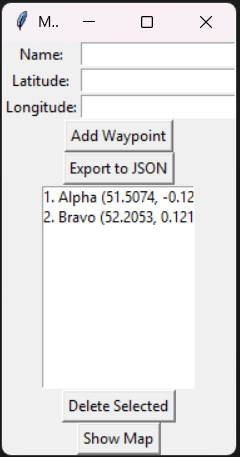
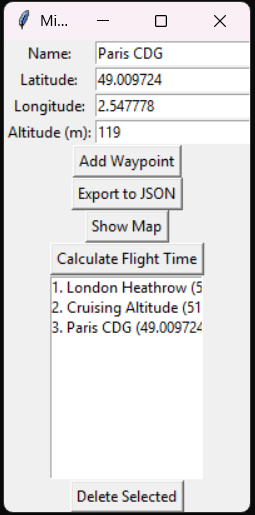
Updated screenshots and added additional ones. Also updated the README file in accordance with these updates.

Changed region(s): [[0.0, 0.0, 0.9917, 1.0]]

diff --git a/MissionPlannerLite/README.md b/MissionPlannerLite/README.md
@@ -15,6 +15,12 @@
 ### 🗺 Display Map
 ![Display Map Screenshot](images/map-screenshot.png)
 
+### 🚀 Window for Entering Average Flight Speed
+![Enter Speed Screenshot](images/speed-screenshot.png)
+
+### ⏱ Flight Time Estimate
+![Flight Time Screenshot](images/flight-time-screenshot.png)
+
 ---
 
 ## ✨ Features
